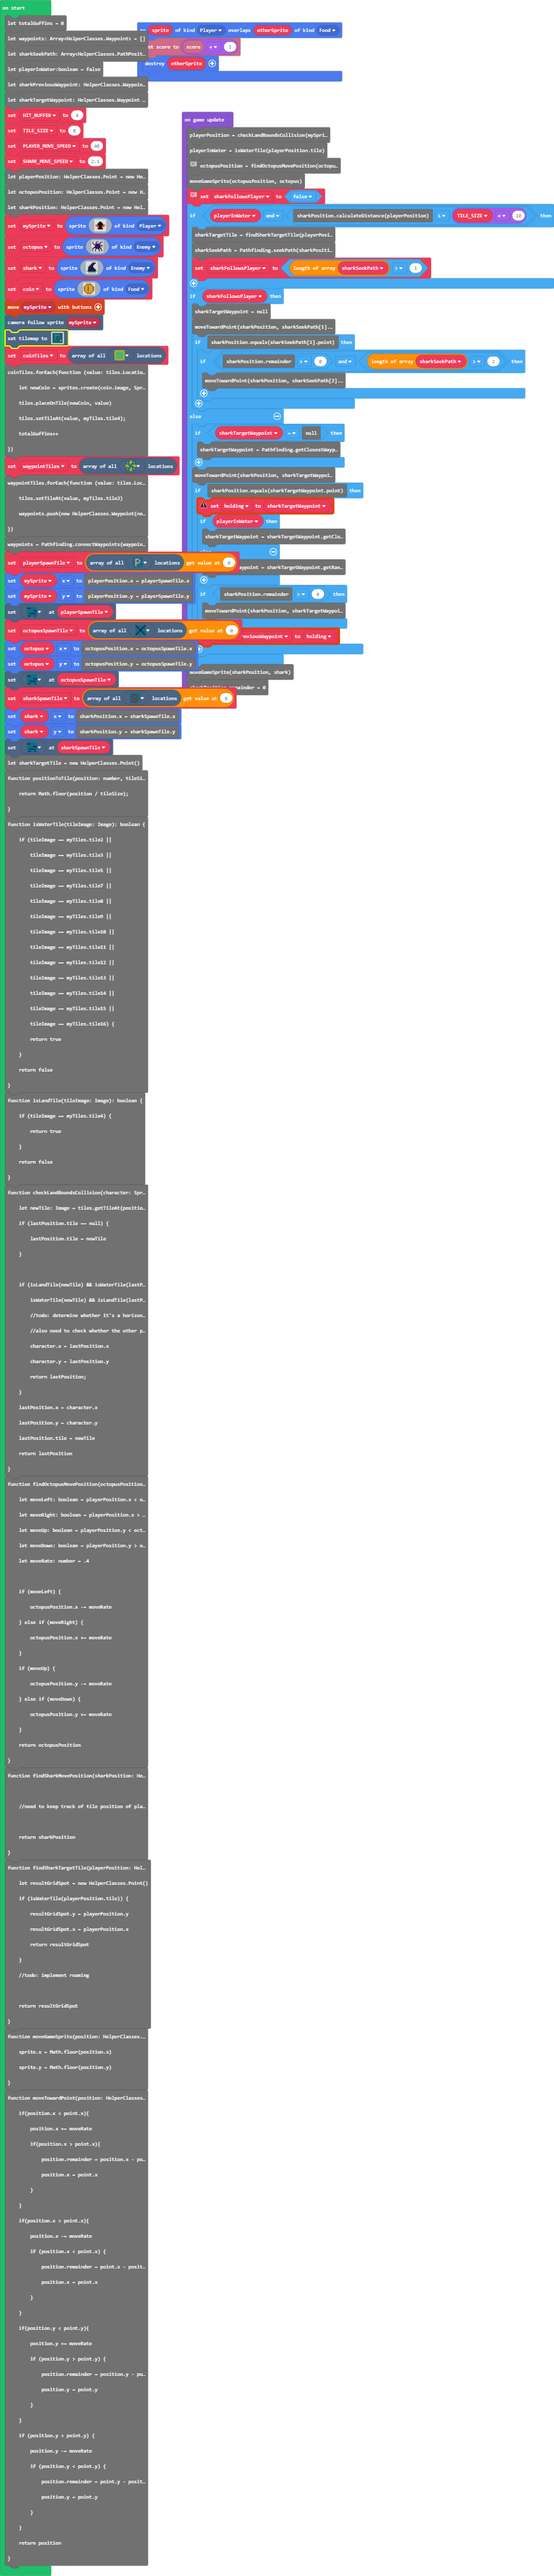
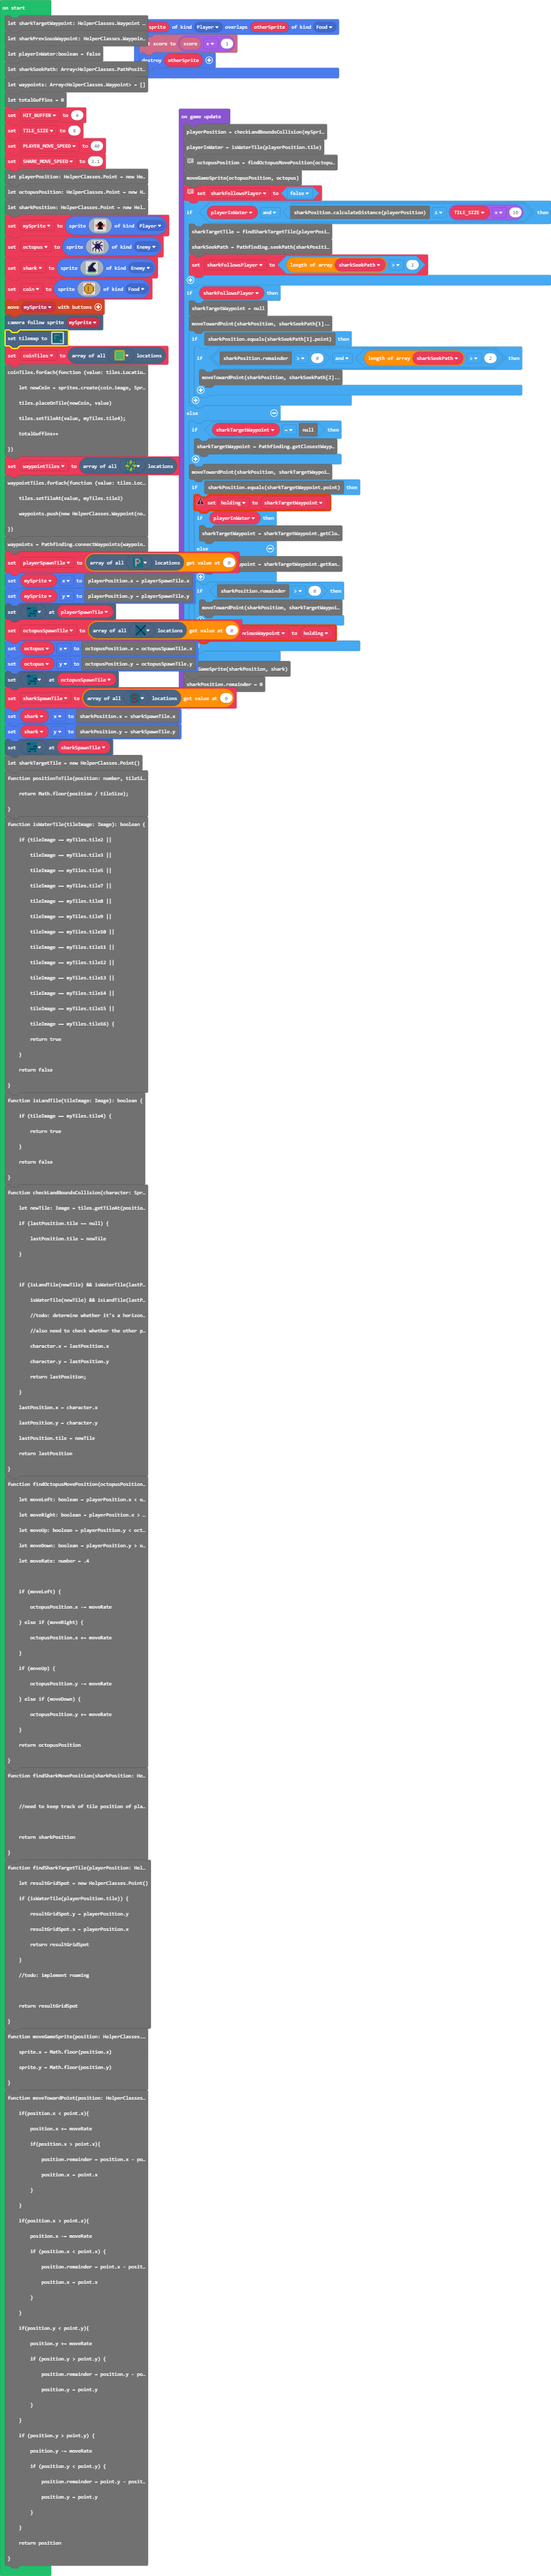
Added treasure chest open tile and swapped open chest tile when all coins are collected

diff --git a/main.ts b/main.ts
@@ -31,14 +31,14 @@ namespace myTiles {
     `
     //% blockIdentity=images._tile
     export const tile3 = img`
-        b e d 8 8 8 8 8
-        b e d 8 8 8 8 8
-        b e d 8 8 8 8 8
-        b e d 8 8 8 8 8
-        b e d 8 8 8 8 8
-        b e d 8 8 8 8 8
-        b e d 8 8 8 8 8
-        b e d 8 8 8 8 8
+        b b b b b b e d
+        b b b e e b e d
+        b b b b b b e d
+        e e b b b b e d
+        b b b b b b e d
+        b b b b b b e d
+        b b e e b b e d
+        b b b b b b e d
     `
     //% blockIdentity=images._tile
     export const tile4 = img`
@@ -260,19 +260,36 @@ namespace myTiles {
         d 4 5 4 4 5 4 d
         d d d d d d d d
     `
+    //% blockIdentity=images._tile
+    export const tile24 = img`
+        d d d d d d d d
+        d d d d d d d d
+        d d d d d d d d
+        d d d d d d d d
+        d 4 5 d d 5 4 d
+        d 4 5 4 4 5 4 d
+        d 4 5 4 4 5 4 d
+        d d d d d d d d
+    `
 }
 sprites.onOverlap(SpriteKind.Player, SpriteKind.Food, function (sprite, otherSprite) {
     info.setScore(info.score() + 1)
     otherSprite.destroy()
+    if(info.score() == totalGuffins){
+        let finalTargetTiles = tiles.getTilesByType(myTiles.tile23)
+        finalTargetTiles.forEach(function (value: tiles.Location, index: number) {
+            tiles.setTileAt(value, myTiles.tile24)
+        })
+    }
 })
-let holding:HelperClasses.Waypoint = null
+let waypointHolding:HelperClasses.Waypoint = null
 let sharkFollowsPlayer = false
-let totalGuffins = 0
-let waypoints: Array<HelperClasses.Waypoint> = []
-let sharkSeekPath: Array<HelperClasses.PathPosition> = []
-let playerInWater:boolean = false
-let sharkPreviousWaypoint: HelperClasses.Waypoint = null
 let sharkTargetWaypoint: HelperClasses.Waypoint = null
+let sharkPreviousWaypoint: HelperClasses.Waypoint = null
+let playerInWater:boolean = false
+let sharkSeekPath: Array<HelperClasses.PathPosition> = []
+let waypoints: Array<HelperClasses.Waypoint> = []
+let totalGuffins = 0
 let HIT_BUFFER = 4
 let TILE_SIZE = 8
 let PLAYER_MOVE_SPEED = 40
@@ -347,7 +364,7 @@ let coin = sprites.create(img`
 controller.moveSprite(mySprite)
 scene.cameraFollowSprite(mySprite)
 tiles.setTilemap(tiles.createTilemap(
-            hex`2000200001010101010101010101010101010101010101010101010101010101010101010101010101010101010101010101010101010101010101010101010101010101010110010101010101010101010101010101010101010101010101110101010101010101010101010101010101010101010101010101010101010101010101010101010115010101010101010101010101010101010101150101010101010101010101010101011313010101010101010101010101010101010101010101010101010101010102030303030303030303030303030314010101010101010101010101010101010203030303030303030303030303031401010101010101010101010101010101020503040101010101010101010101010101010101010101010101010101120102030304011501010101010101010101011501010101010101010101010101010203050401010101010101010101010101010101010101010101010101010101020303040101010101010101010101010101010101010101010101010101010102050304010101010101010101010101010101010101010101010101010101010203030401010101010101010101010101010101010101010101010101010101020305040101010101010101010101010101010101010101010101010101010102030304010101010101010101010101010101010101010101010101010101010205030401010101010101010101010101010101010101010101010101010101020303040101010101010101010101010101010101010101010101010101010102030504010101010101010101010101010101010101010101010101010101010203030401010101010101010101010101010101010101010101010101010101020503040101010101010101010101010101010101010101010101010101010101131301010101010101010101010101010101131313010101010101010115010101010101150101010101010101010101010303030303010101010101010101010101010101010101010101010101010114030303030301010101010101010101010101010101010101010101010101011403031603030101010101010101010101010101010101010101010101010101140303030303010101010101010101010101010101010101010101010101010101030303030301010101010101010101010101010101010101010101010101010101010101010101010101010101010101010101010101010101010101010101010101010101010101010101010101010101010101010101010101010101010101010101010101010101010101010101010101010101010101010101010101010101010101010101010101010101010101010101010101010101010101010101010101010101010101`,
+            hex`2000200001010101010101010101010101010101010101010101010101010101010101010101010101010101010101010101010101010101010101010101010101010101010110010101010101010101010101010101010101010101010101110101010101010101010101010101010101010101010101010101010101010101010101010101010115010101010101010101010101010101010101150101010101010101010101010101011313010101010101010101010101010101010101010101010101010101010102030303030303030303030303030314010101010101010101010101010101010203030303030303030303030303031401010101010101010101010101010101020503040101010101010101010101010101010101010101010101010101120102030304011501010101010101010101011501010101010101010101010101010203050401010101010101010101010101010101010101010101010101010101020303040101010101010101010101010101010101010101010101010101010102050304010101010101010101010101010101010101010101010101010101010203030401010101010101010101010101010101010101010101010101010101020305040101010101010101010101010101010101010101010101010101010102030304010101010101010101010101010101010101010101010101010101010205030401010101010101150101010101150101010101011501010101010101020303040101010101010101010101010101010101010101010101010101010102030504010101010101010101010101010101010101010101010101010101010203030401010101010101010101010101010101010101010101010101010101020503040101010101010101010101010101010101010101010101010101010101131301010101010101010101010101010101131313010101010101010115010101010101150101010101150101010101010303030303010101010101010101010101010101010101010101010101010114030303030301010101010101010101010101010101010101010101010101011403031603030101010101010101010101010101010101010101010101010101140303030303010101010101010101010101010101010101010101010101010101030303030301010101010101010101010101010101010101010101010101010101010101010101010101010101010101010101010101010101010101010101010101010101010101010101011501010101010115010101010115010101010101010101010101150101010101010101010101010101010101010101010101010101010101010101010101010101010101010101010101010101010101010101010101010101010101`,
             img`
                 . . . . . . . . . . . . . . . . . . . . . . . . . . . . . . . .
                 . . . . . . . . . . . . . . . . . . . . . . . . . . . . . . . .
@@ -382,7 +399,7 @@ tiles.setTilemap(tiles.createTilemap(
                 . . . . . . . . . . . . . . . . . . . . . . . . . . . . . . . .
                 . . . . . . . . . . . . . . . . . . . . . . . . . . . . . . . .
             `,
-            [myTiles.tile0,myTiles.tile2,myTiles.tile3,myTiles.tile4,myTiles.tile5,myTiles.tile6,myTiles.tile7,myTiles.tile8,myTiles.tile9,myTiles.tile10,myTiles.tile11,myTiles.tile12,myTiles.tile13,myTiles.tile14,myTiles.tile15,myTiles.tile16,myTiles.tile17,myTiles.tile18,myTiles.tile19,myTiles.tile20,myTiles.tile21,myTiles.tile22,myTiles.tile23],
+            [myTiles.tile0,myTiles.tile2,myTiles.tile3,myTiles.tile4,myTiles.tile5,myTiles.tile6,myTiles.tile7,myTiles.tile8,myTiles.tile9,myTiles.tile10,myTiles.tile11,myTiles.tile12,myTiles.tile13,myTiles.tile14,myTiles.tile15,myTiles.tile16,myTiles.tile17,myTiles.tile18,myTiles.tile19,myTiles.tile20,myTiles.tile21,myTiles.tile22,myTiles.tile23,myTiles.tile24],
             TileScale.Eight
         ))
 let coinTiles = tiles.getTilesByType(myTiles.tile6)
@@ -555,7 +572,7 @@ if (sharkPosition.equals(sharkSeekPath[1].point)) {
         }
         moveTowardPoint(sharkPosition, sharkTargetWaypoint.point, SHARK_MOVE_SPEED)
 if (sharkPosition.equals(sharkTargetWaypoint.point)) {
-            holding = sharkTargetWaypoint
+            waypointHolding = sharkTargetWaypoint
             if (playerInWater) {
                 sharkTargetWaypoint = sharkTargetWaypoint.getClosestConnectionToPoint(playerPosition)
             } else {
@@ -564,7 +581,7 @@ if (sharkPosition.equals(sharkTargetWaypoint.point)) {
             if (sharkPosition.remainder > 0) {
                 moveTowardPoint(sharkPosition, sharkTargetWaypoint.point, sharkPosition.remainder)
             }
-            sharkPreviousWaypoint = holding
+            sharkPreviousWaypoint = waypointHolding
         }
     }
     moveGameSprite(sharkPosition, shark)
